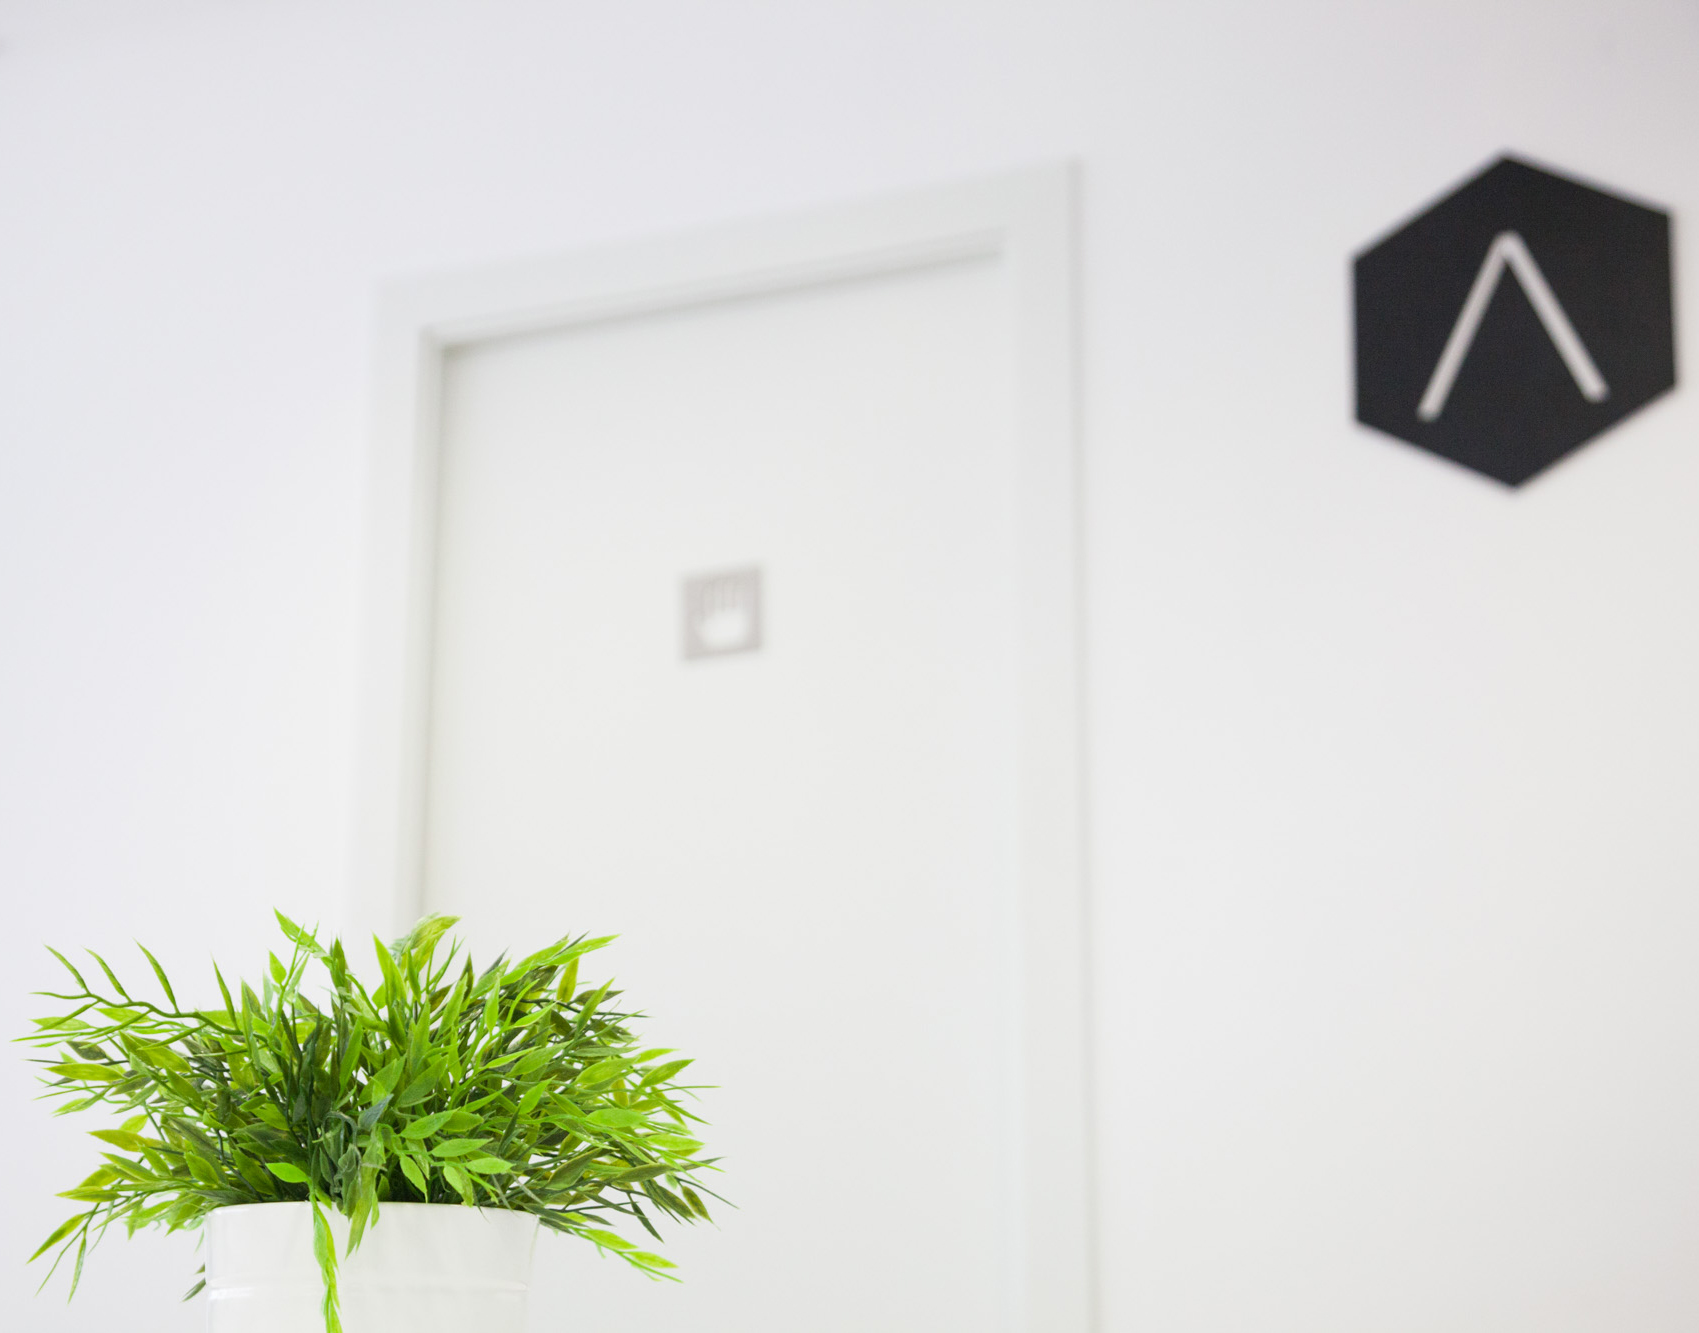
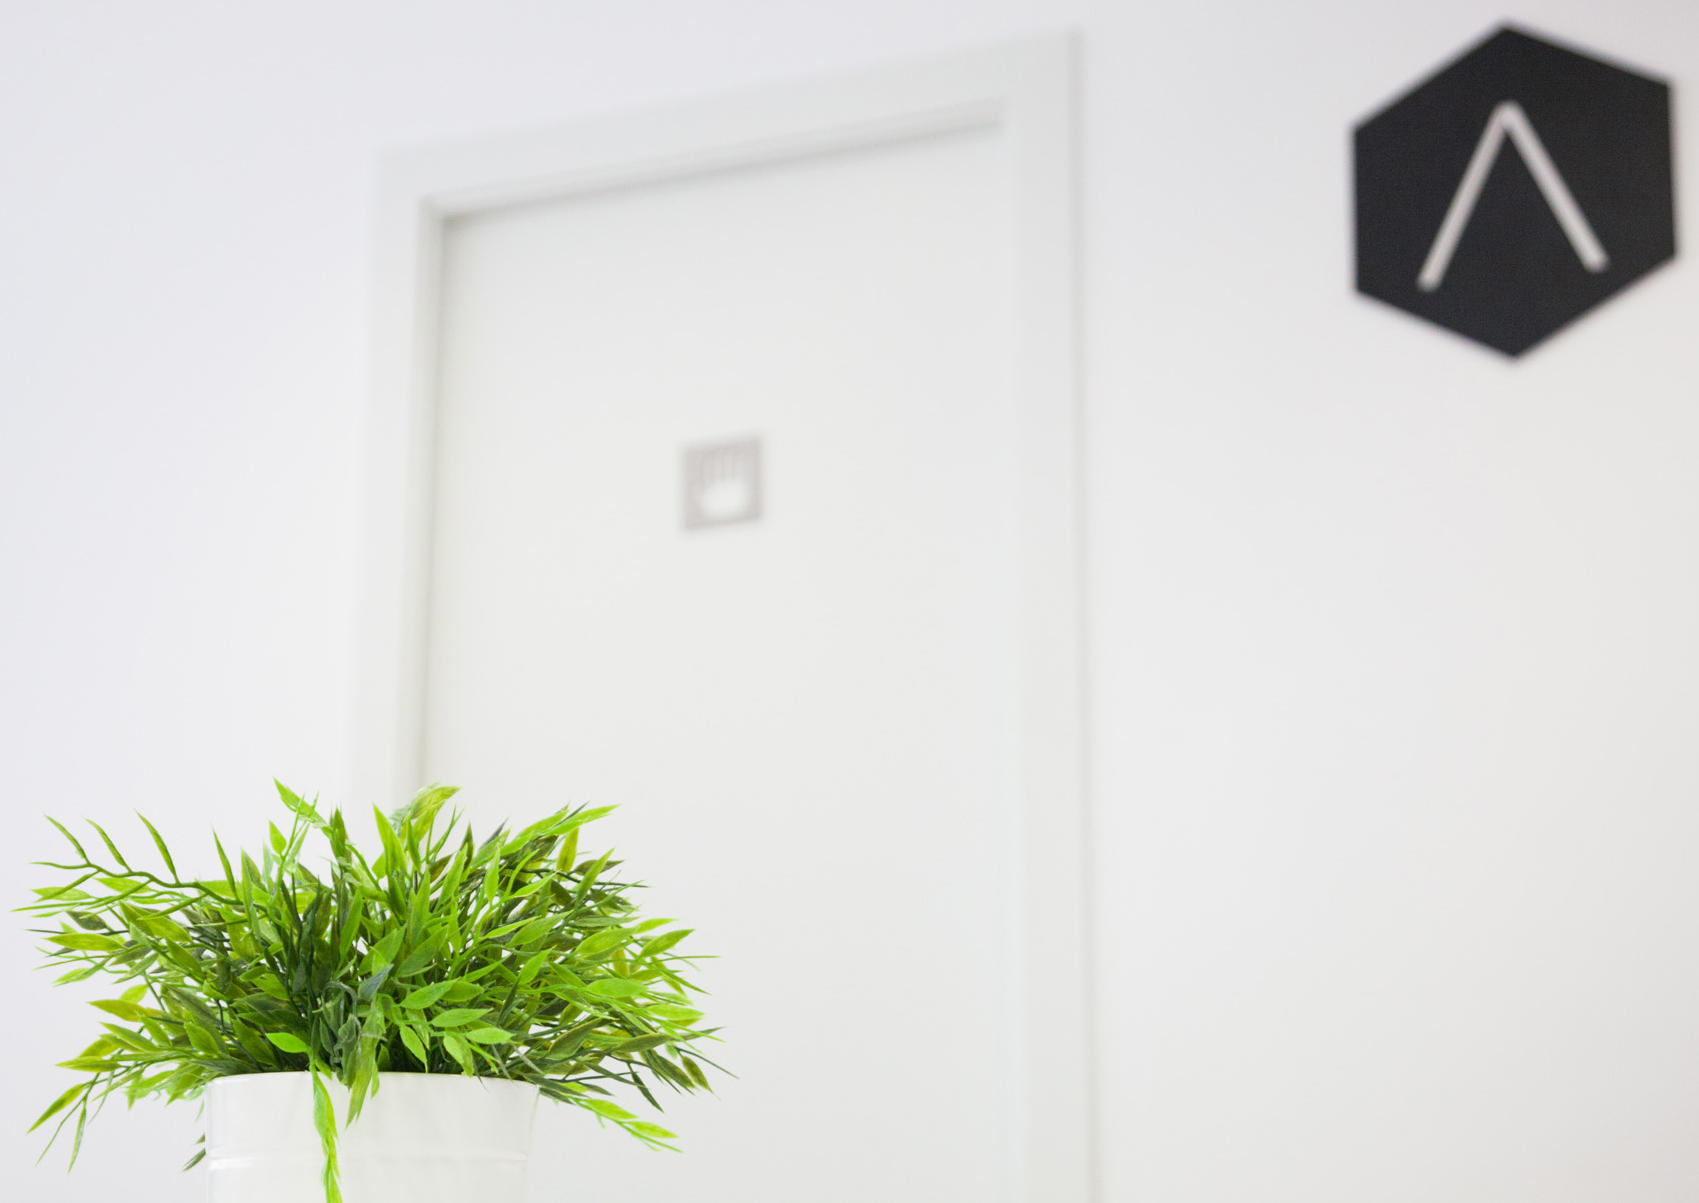
Grid optimize 2
- Reduce classes
- Resize hero image
- Checked projects template

diff --git a/app/scss/_grid.scss b/app/scss/_grid.scss
@@ -4,8 +4,24 @@
 
 .container {
   width: 90%;
-    padding: 3rem 0;
+  margin: 0 auto;
+  padding: 3rem 0;
 }
+
+.row {
+    display: -webkit-box;
+    display: -moz-box;
+    display: -ms-flexbox;
+    display: -webkit-flex;
+    display: flex;
+    -webkit-flex-direction: row;
+    -ms-flex-direction: row;
+    width: 100%;
+    margin: 0 auto;
+    padding: 3rem 0rem;
+}
+
+
 
 .flex-container {
     display: -webkit-box;
@@ -35,20 +51,6 @@
     align-self: center;
     justify-self: center;
 }
-
-.row {
-    display: -webkit-box;
-    display: -moz-box;
-    display: -ms-flexbox;
-    display: -webkit-flex;
-    display: flex;
-    -webkit-flex-direction: row;
-    -ms-flex-direction: row;
-    width: 100%;
-    margin: auto;
-    padding: 3rem 1rem;
-}
-
 
 .wrapper-row {
     display: -webkit-box;

diff --git a/app/assets/about.html b/app/assets/about.html
@@ -99,18 +99,19 @@
     </header>
 
 
-<section role="main" class="site-content">
+<main class="site-content">
+
     <!-- main wrapper push down sticky footer-->
 
     <div class="flex-container wrapper-center">
-        <figure class="col-2">
+        <figure>
             <img src="../img/hero_image.jpg" alt="Perspectiva Headquarters" />
         </figure>
 
     </div>
 
     <div class="container" data-aos="fade-up" data-aos-duration="2000">
-        <div class="wrapper-row">
+        <div class="row">
             <div class="col">
                 <div class="project-title">
                     <p>Perspectiva</p>
@@ -224,8 +225,8 @@
         </div>
     </div>
 
-</section>
 
+</main>
 <footer>
     <div class="footer-wrapper">
 

diff --git a/app/assets/index.html b/app/assets/index.html
@@ -99,14 +99,8 @@
     </header>
 
 
-
-<div class="wrapper-fixed">
-
-
 <!-- main wrapper push down sticky footer without header-->
-
-
-<section role="main" class="site-content">
+<main class="site-content">
     <!-- main wrapper push down sticky footer-->
 
 
@@ -176,8 +170,9 @@
         </div>
     </div>
 
-</section>
-</div>
+
+</main>
+
 
 <footer>
     <div class="footer-wrapper">

diff --git a/app/assets/services.html b/app/assets/services.html
@@ -99,7 +99,8 @@
     </header>
 
 
-<section role="main" class="site-content">
+<main class="site-content">
+
     <!-- main wrapper push down sticky footer-->
 
     <div class="container" data-aos="fade-up" data-aos-duration="2000">
@@ -284,8 +285,8 @@
         </div>
     </div>
 
-</section>
 
+</main>
 
 <footer>
     <div class="footer-wrapper">

diff --git a/app/scss/_general.scss b/app/scss/_general.scss
@@ -12,7 +12,9 @@
 }
 
 body {
-
+display: flex;
+flex-direction: column;
+height: 100%;
     line-height: 1;
     font-family: 'IBM Plex Sans', 'Helvetica Neue', Arial, sans-serif;
     color: #4D4D4D;
@@ -37,7 +39,7 @@ body {
     -ms-flex: 1 0 auto;
     flex: 1 0 auto;
     width: 100%;
-    padding: 1.8rem 0;
+    margin-top: 8rem;
 }
 
 

diff --git a/app/assets/projectDetail.html b/app/assets/projectDetail.html
@@ -99,11 +99,13 @@
     </header>
 
 
-<section role="main" class="site-content">
+<main class="site-content">
+
     <!-- main wrapper push down sticky footer-->
 
-</section>
 
+  
+</main>
 
 <footer>
     <div class="footer-wrapper">

diff --git a/app/assets/projects.html b/app/assets/projects.html
@@ -99,11 +99,13 @@
     </header>
 
 
-<section role="main" class="site-content">
+<main class="site-content">
     <!-- main wrapper push down sticky footer-->
 
 
-</section>
+
+</main>
+
 
 <footer>
     <div class="footer-wrapper">
